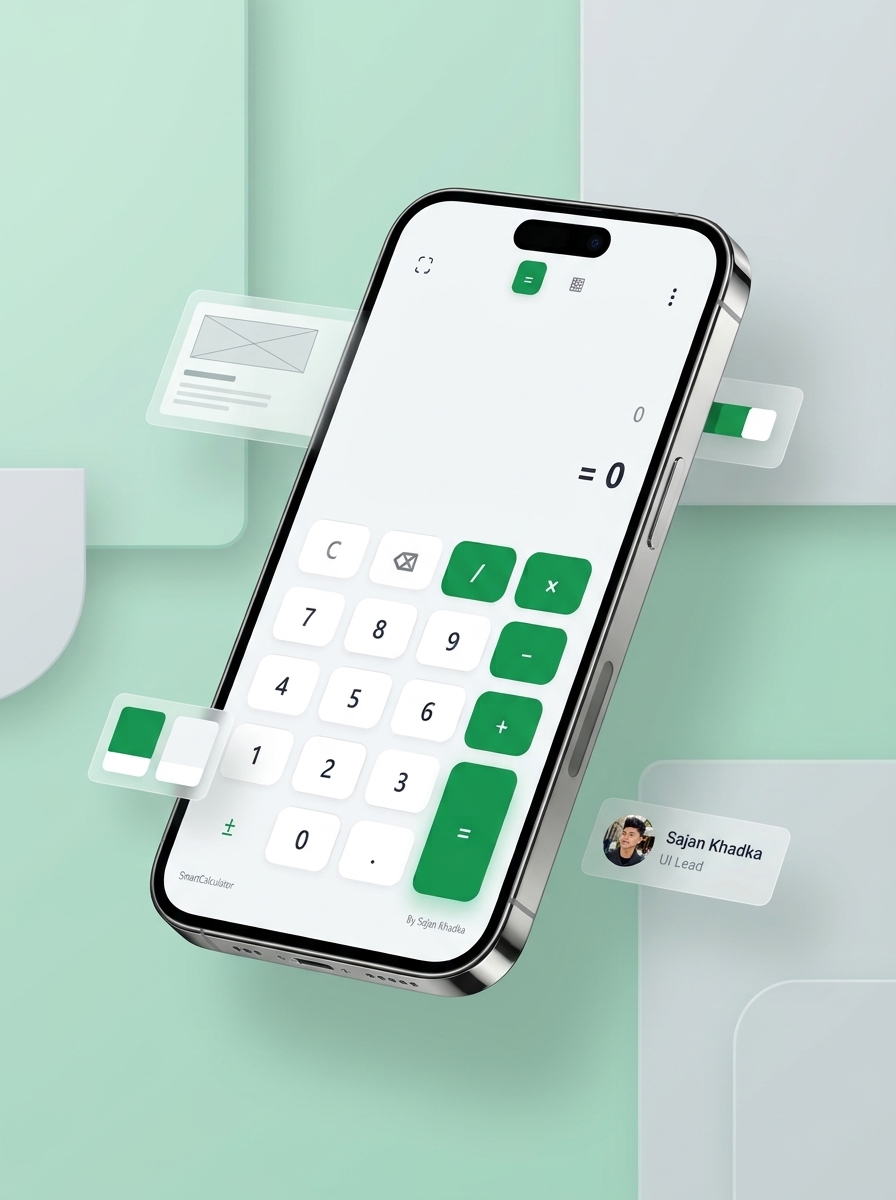
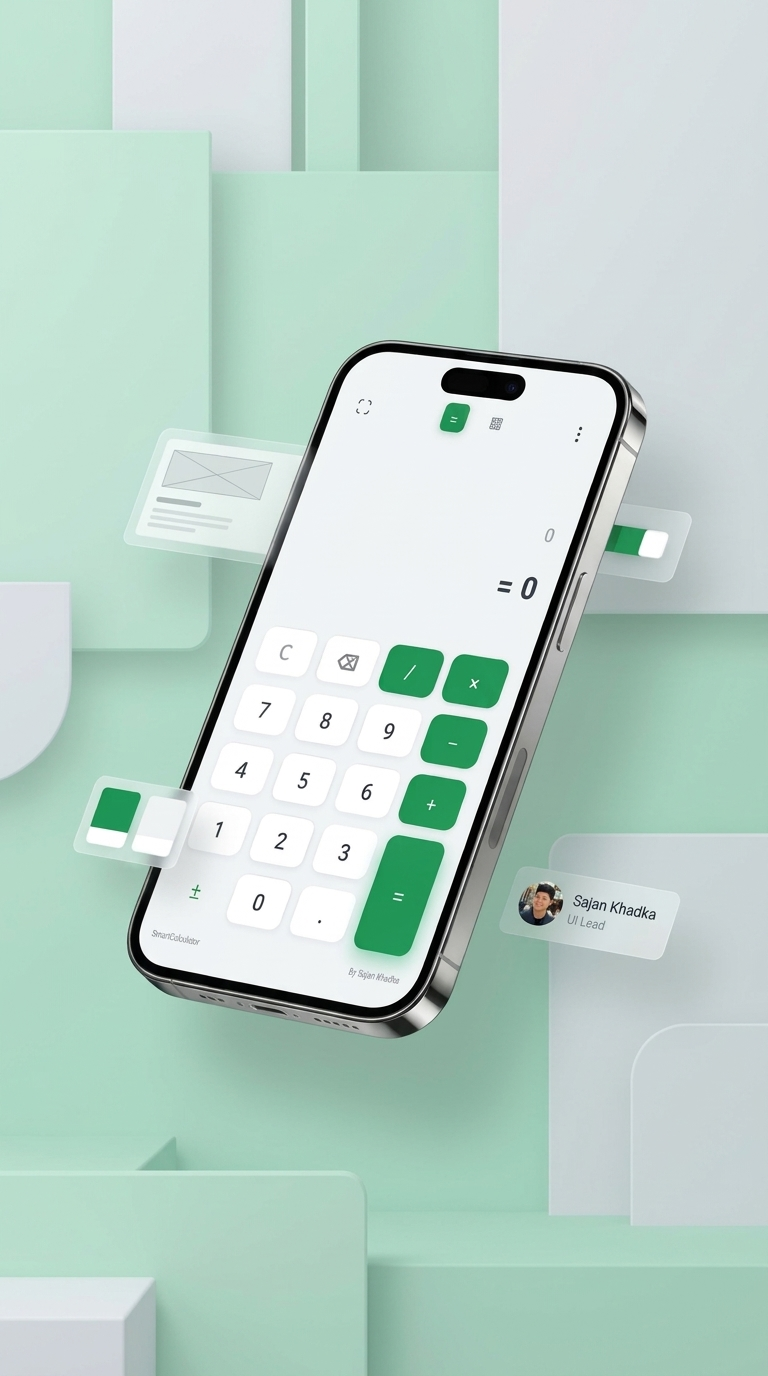
Update portfolio and add TypePro project

diff --git a/index.html b/index.html
@@ -1714,93 +1714,156 @@
     </section>
 
     
+<!-- =======================================================
+     04 — PROJECTS SECTION
+======================================================== -->
 
-    <!-- =======================================================
-         04 — PROJECTS SECTION
-    ======================================================== -->
+<section class="section projects-section" id="projects">
 
-    <section class="section projects-section" id="projects">
+  <div class="container">
 
-      <div class="container">
+    <div class="section-heading reveal">
 
-        <div class="section-heading reveal">
+      <span class="section-label" data-i18n="projectsLabel">
+        03 / MY PROJECTS
+      </span>
 
-          <span class="section-label" data-i18n="projectsLabel">
-            03 / MY PROJECTS
-          </span>
+      <h2 class="section-title" data-i18n="projectsHeading">
+        Featured <span>Projects</span>
+      </h2>
 
-          <h2 class="section-title" data-i18n="projectsHeading">
-            Featured <span>Projects</span>
-          </h2>
+      <p class="section-subtitle" data-i18n="projectsSubtitle">
+        Explore my web development projects and digital solutions.
+      </p>
 
-          <p class="section-subtitle" data-i18n="projectsSubtitle">
-            Explore my web development projects and digital solutions.
-          </p>
+    </div>
+
+
+    <div class="projects-grid">
+
+
+      <!-- PROJECT 01 — SMARTCALCULATOR -->
+
+      <article class="project-card reveal">
+
+        <div class="project-visual project-visual-calculator">
+
+          <img
+            src="assets/images/smartcalculator.png"
+            alt="SmartCalculator application preview"
+            loading="lazy"
+            style="width:100%; height:100%; min-height:200px; object-fit:cover; display:block;"
+          >
+
+          <span class="project-number">01</span>
 
         </div>
 
-        <div class="projects-grid">
 
-          <!-- SMARTCALCULATOR -->
+        <div class="project-content">
 
-          <article class="project-card reveal">
+          <div class="project-status">
+            <span class="status-dot"></span>
+            <span data-i18n="projectStatus">Available</span>
+          </div>
 
-            <div class="project-visual project-visual-calculator">
+          <h3>SmartCalculator</h3>
 
-              <img
-                src="assets/images/smartcalculator.png"
-                alt="SmartCalculator application preview"
-                loading="lazy"
-                style="width:100%; height:100%; min-height:200px; object-fit:cover; display:block;"
-              >
+          <p data-i18n="smartCalculatorDescription">
+            A responsive calculator featuring standard and scientific
+            calculations, calculation history, and multiple unit converters.
+          </p><br>
 
-              <span class="project-number">01</span>
+          <div class="project-tags">
+            <span>HTML</span>
+            <span>CSS</span>
+            <span>JavaScript</span>
+          </div>
 
-            </div>
+          <div class="project-links">
 
-            <div class="project-content">
+            <a
+              href="https://sajankhadka2063-create.github.io/smartcalculator/"
+              class="btn btn-primary"
+              target="_blank"
+              rel="noopener noreferrer"
+            >
+              <i class="fa-solid fa-arrow-up-right-from-square"></i>
+              <span>Live Demo</span>
+            </a>
 
-              <div class="project-status">
-                <span class="status-dot"></span>
-                <span data-i18n="projectStatus">
-                  Available
-                </span>
-              </div>
+          </div>
 
-              <h3>SmartCalculator</h3>
+        </div>
 
-              <p data-i18n="smartCalculatorDescription">
-                A responsive calculator featuring standard and scientific
-                calculations, calculation history, and multiple unit converters.
-              </p>
+      </article>
 
-             <div class="project-tags">
-    <span>HTML</span>
-    <span>CSS</span>
-    <span>JavaScript</span>
-</div>
 
-<div class="project-links">
-    <a
-        href="https://sajankhadka2063-create.github.io/smartcalculator/"
+
+<!-- PROJECT 02 — TYPEPRO -->
+
+<article class="project-card reveal">
+
+  <div class="project-visual project-visual-typepro">
+
+    <img
+      src="assets/images/typepro.jpg"
+      alt="TypePro Touch Typing Practice preview"
+      loading="lazy"
+      style="width:100%; height:100%; min-height:200px; object-fit:cover; display:block;"
+    >
+
+    <span class="project-number">02</span>
+
+  </div>
+
+
+  <div class="project-content">
+
+    <div class="project-status">
+      <span class="status-dot"></span>
+      <span data-i18n="projectStatus">Available</span>
+    </div>
+
+    <h3>TypePro</h3>
+
+    <p>
+      An interactive touch typing practice platform designed to improve
+      typing speed, accuracy, and keyboard skills through timed tests,
+      free practice, virtual keyboard guidance, and multiple typing modes.
+    </p>
+
+    <div class="project-tags">
+      <span>HTML</span>
+      <span>CSS</span>
+      <span>JavaScript</span>
+    </div>
+
+    <div class="project-links">
+
+      <a
+        href="https://sajankhadka2063-create.github.io/TypePro/"
         class="btn btn-primary"
         target="_blank"
         rel="noopener noreferrer"
-    >
+      >
         <i class="fa-solid fa-arrow-up-right-from-square"></i>
         <span>Live Demo</span>
-    </a>
-</div>
+      </a>
 
-            </div>
+    </div>
 
-          </article>
+  </div>
 
-        </div>
+</article>
 
-      </div>
 
-    </section>
+
+    </div>
+
+  </div>
+
+</section>
 
     <!-- =======================================================
          05 — GRAPHIC DESIGN PORTFOLIO
